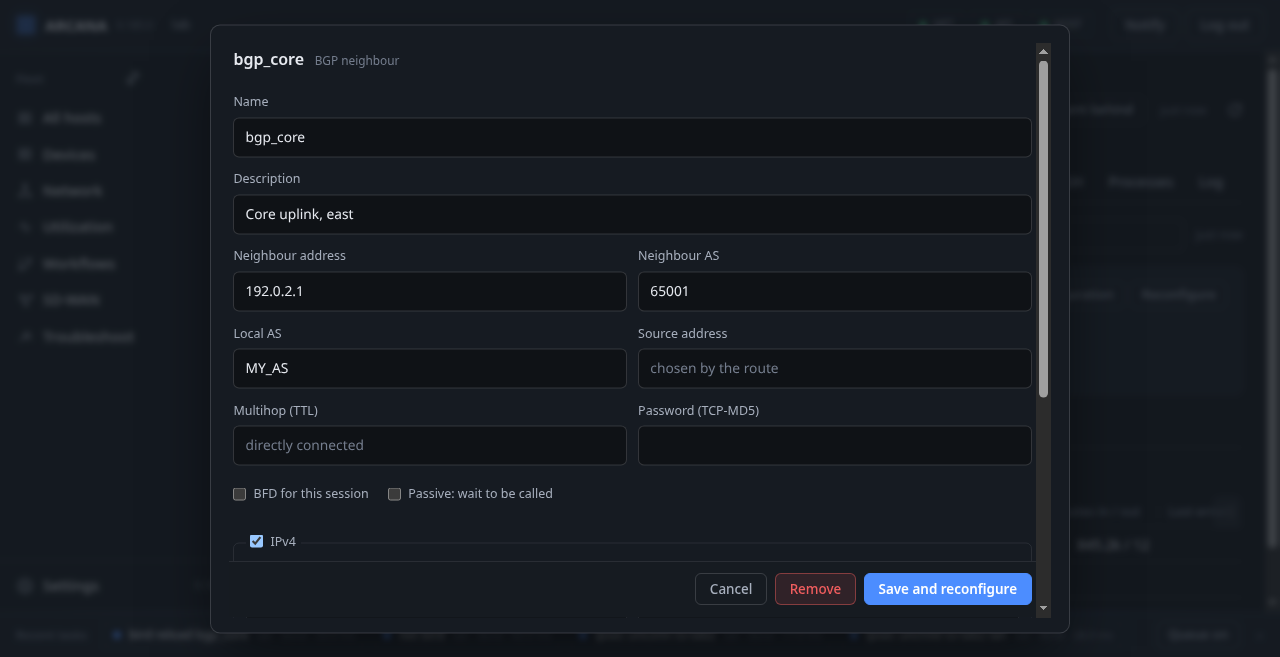
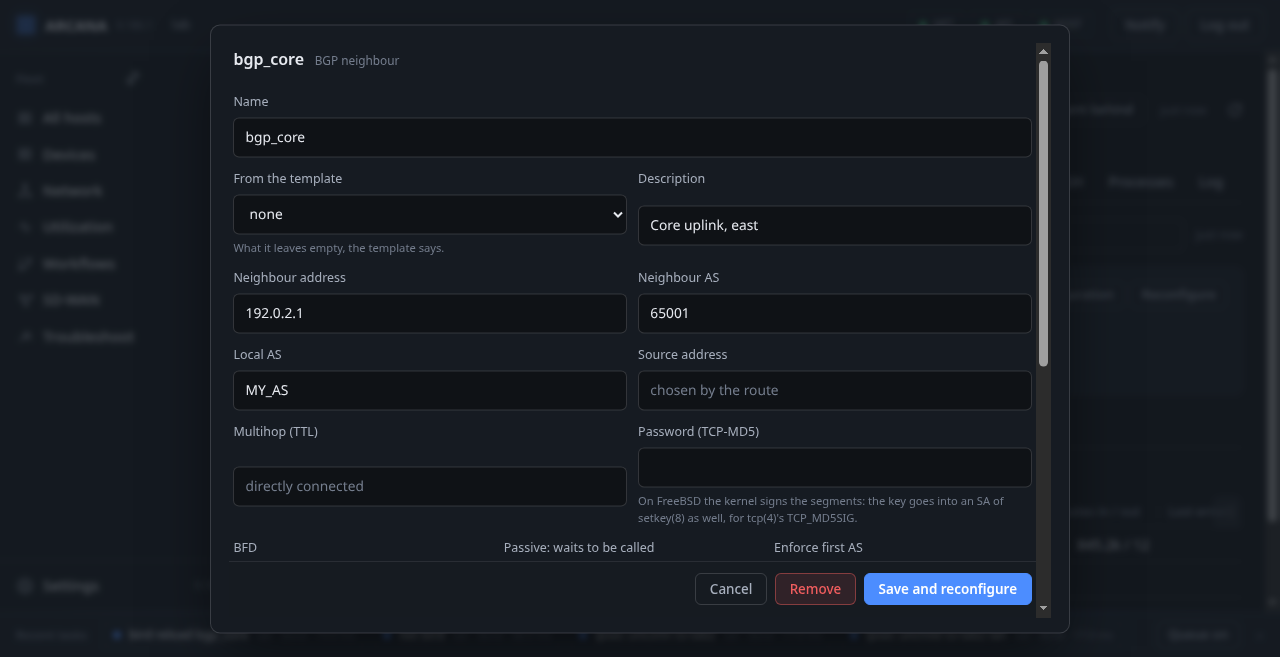
BIRD's forms: templates, enforce first AS, ECMP, BFD accept

diff --git a/src/sections/plugins.md b/src/sections/plugins.md
@@ -166,18 +166,21 @@ neighbours BIRD has, BFD's the sessions.
 
 Each kind is made and changed with a form instead of text:
 
-- **BGP**: the neighbour's address (a link-local one with its
+- **BGP**: the template it is made from (what the form leaves empty,
+  the template says), the neighbour's address (a link-local one with its
   interface, `fe80::1%em0`) and AS, the local AS (a number, or a name
   the file defines), the source address, multihop, the TCP-MD5
   password (written with `authentication md5`; on FreeBSD the kernel
   signs the segments, `tcp(4)`'s `TCP_MD5SIG`, so the key goes into an
-  SA of `setkey(8)` too), BFD and passive; for IPv4 and IPv6 each, whether the
+  SA of `setkey(8)` too); BFD, passive and enforce first AS, each on,
+  off or left to the template or BIRD; for IPv4 and IPv6 each, whether the
   session carries it, the import and export (`all`, `none` or a filter
   of the file) and next hop self;
-- **OSPF**: OSPFv2 or v3, IPv4 or IPv6, import and export, the area and
+- **OSPF**: OSPFv2 or v3, IPv4 or IPv6, import and export, ECMP, the area and
   up to six interfaces (a name or a pattern), each with its cost, type
   (broadcast or point-to-point), hello and dead times, BFD and stub;
-- **BFD**: up to six interfaces with their least receive and send
+- **BFD**: what sessions it accepts (IPv4 or IPv6, direct or multihop),
+  up to six interfaces with their least receive and send
   intervals and the multiplier, and neighbours of its own, each with an
   interface, a local address and multihop (which needs the local
   address).
